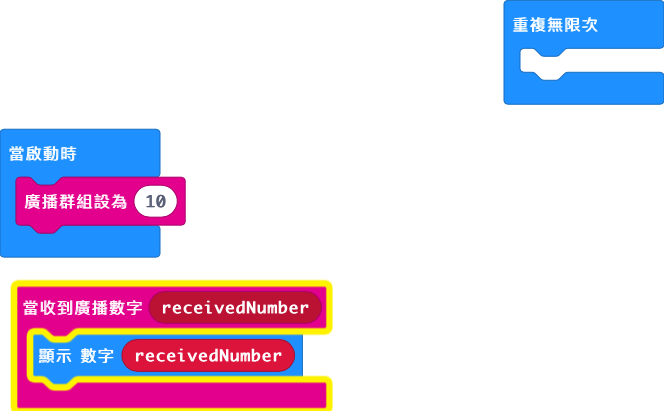
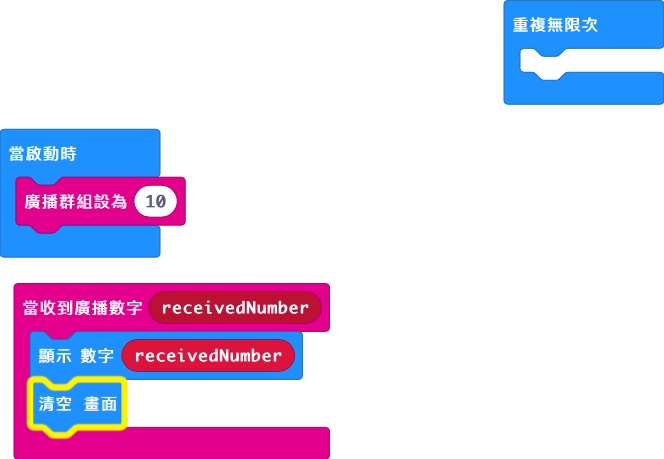
Update main.blocks, main.ts

Changed region(s): [[0.0, 0.2628, 0.512, 1.0], [0.753, 0.0292, 1.0, 0.2628]]

diff --git a/main.ts b/main.ts
@@ -1,5 +1,6 @@
 radio.onReceivedNumber(function (receivedNumber) {
     basic.showNumber(receivedNumber)
+    basic.clearScreen()
 })
 radio.setGroup(10)
 basic.forever(function () {
